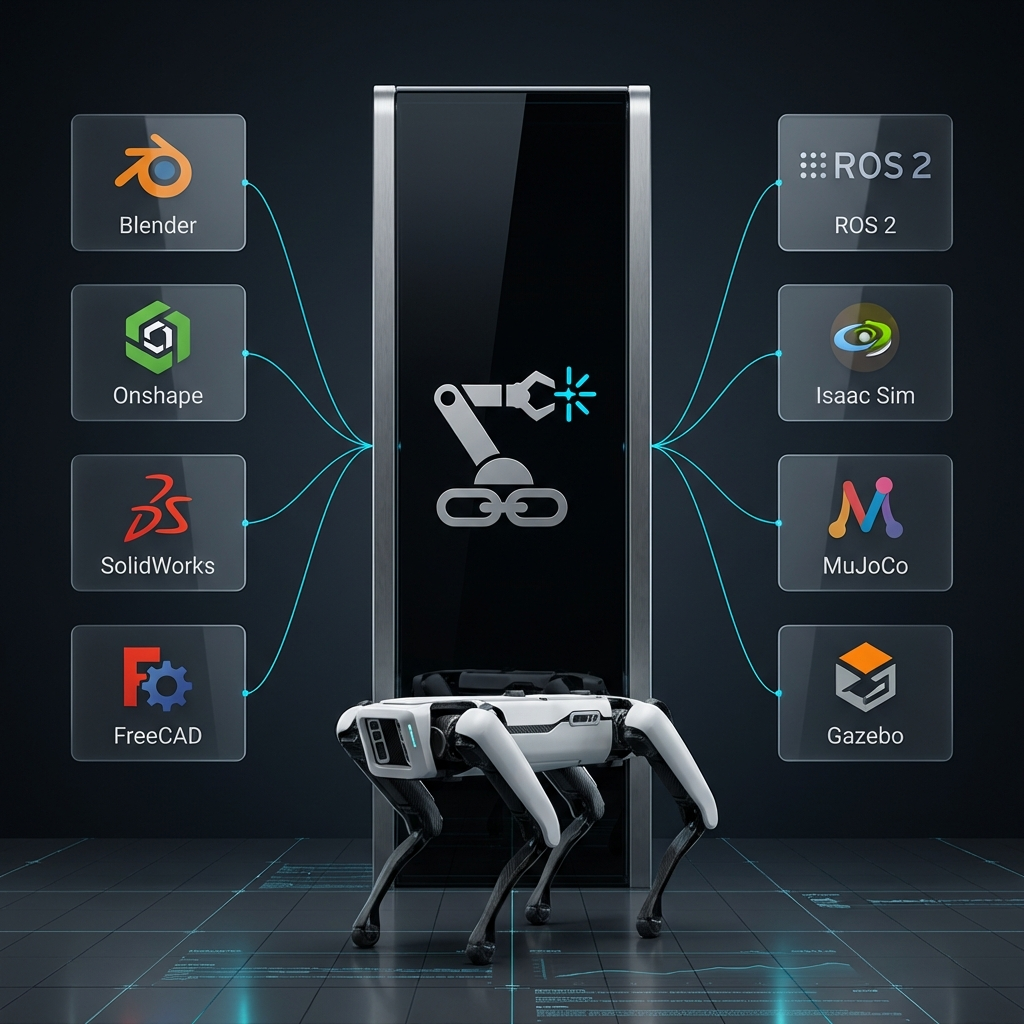
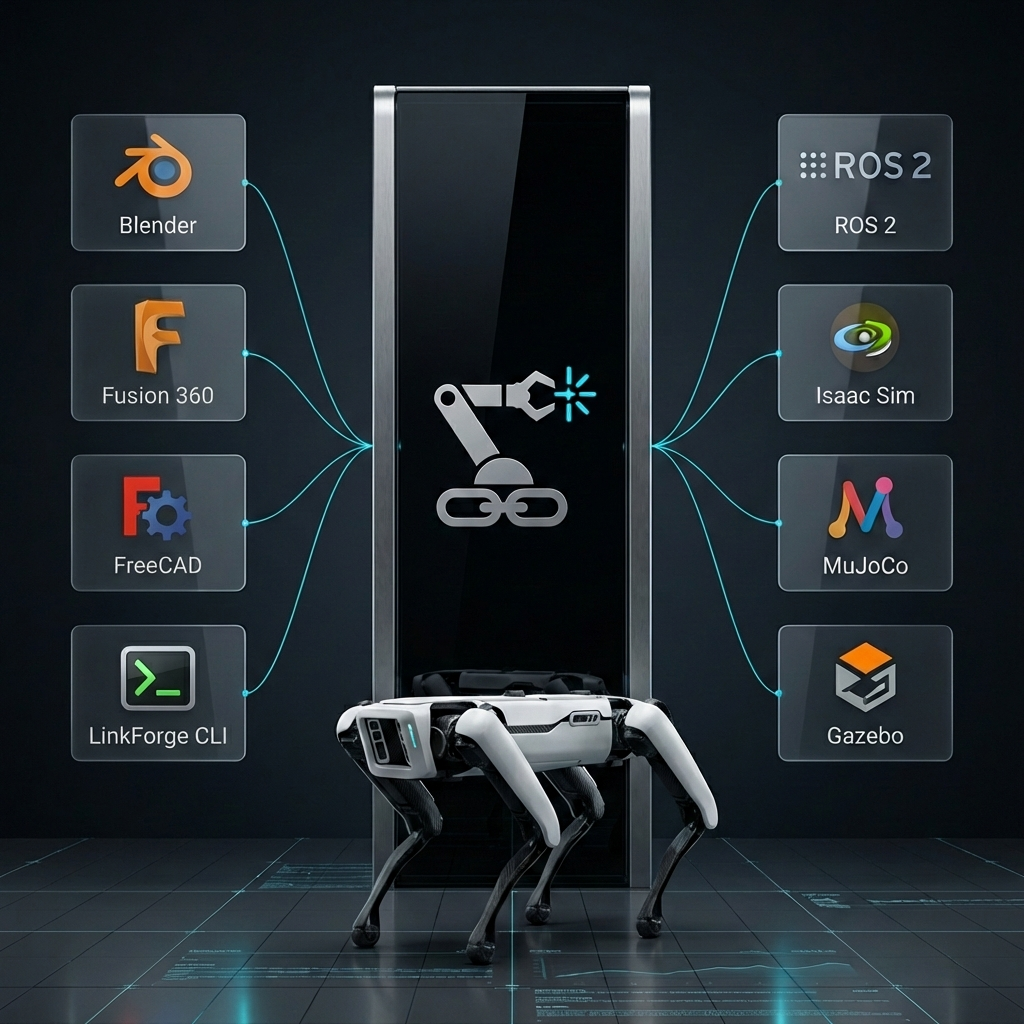
docs: Update listed design systems in VISION.md and its accompanying vision image.

diff --git a/VISION.md b/VISION.md
@@ -17,7 +17,7 @@ There is a fundamental "impedance mismatch" in the modern robotics workflow. Lin
 ### The Solution: LinkForge
 LinkForge is not just an exporter; it is a **Universal Interoperability Platform**. It acts as the high-fidelity translator that ensures your design intent is mathematically preserved across the entire development lifecycle:
 
-**Design Systems** (Blender, Onshape, CAD) ➜ **LinkForge Core** ➜ **Simulation & Production** (ROS 2, MuJoCo, Isaac Sim, Real Hardware)
+**Design Systems** (Blender, FreeCAD, Fusion 360) ➜ **LinkForge Core** ➜ **Simulation & Production** (ROS 2, MuJoCo, Isaac Sim, Real Hardware)
 
 ---
 
